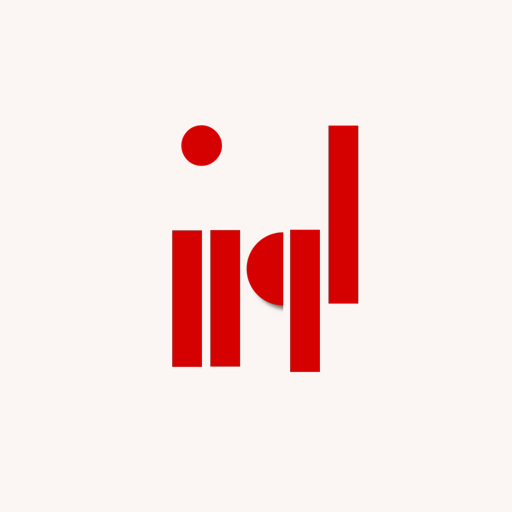
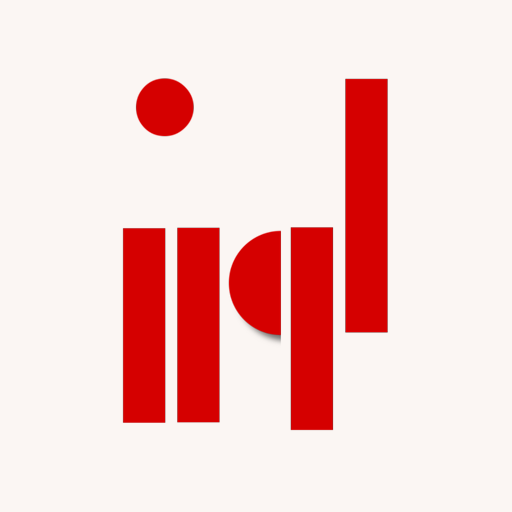
الشعار الأصلي في الشريط والفوتر بعد قصّ هوامشه الشفافة

Changed region(s): [[0.2188, 0.125, 0.7812, 0.8438], [0.25, 0.1562, 0.4375, 0.3438]]

diff --git a/index.html b/index.html
@@ -112,14 +112,8 @@
   <div class="container nav__inner">
 
     <a class="nav__brand" href="#hero" aria-label="مؤسسة لون — الصفحة الرئيسية">
-      <svg viewBox="0 0 1240 1240" aria-hidden="true" fill="currentColor">
-        <circle cx="441" cy="243" r="68"/>
-        <rect x="858" y="172" width="103" height="595"/>
-        <rect x="343" y="520" width="104" height="455"/>
-        <rect x="470" y="520" width="100" height="455"/>
-        <path d="M713 520v250h-3a125 125 0 0 1 0-250z"/>
-        <rect x="733" y="520" width="100" height="470"/>
-      </svg>
+      <img class="nav__logo" src="assets/img/logo.png" alt="" aria-hidden="true"
+             width="634" height="830" fetchpriority="high">
       <span class="nav__brand-text" data-i18n="brand.short">مؤسسة لون</span>
     </a>
 
@@ -604,14 +598,8 @@
 
       <div>
         <a class="nav__brand" href="#hero" style="margin-bottom:16px">
-          <svg viewBox="0 0 1240 1240" aria-hidden="true" fill="currentColor">
-            <circle cx="441" cy="243" r="68"/>
-            <rect x="858" y="172" width="103" height="595"/>
-            <rect x="343" y="520" width="104" height="455"/>
-            <rect x="470" y="520" width="100" height="455"/>
-            <path d="M713 520v250h-3a125 125 0 0 1 0-250z"/>
-            <rect x="733" y="520" width="100" height="470"/>
-          </svg>
+          <img class="nav__logo" src="assets/img/logo.png" alt="" aria-hidden="true"
+             width="634" height="830" fetchpriority="high">
           <span class="nav__brand-text" data-i18n="brand.full">مؤسسة لون للمقاولات العامة</span>
         </a>
         <p style="color:var(--muted);font-size:15px;max-width:42ch" data-i18n="footer.tag">

diff --git a/assets/css/styles.css b/assets/css/styles.css
@@ -466,10 +466,17 @@ button { font: inherit; color: inherit; }
   align-items: center;
   gap: 12px;
   min-height: 56px;
-  color: var(--logo);
 }
 
-.nav__brand svg { width: 56px; height: 56px; }
+/* الشعار الأصلي صورة لا رسم متجّه. الملف المرسل كان محتواه 51% من عرضه
+   والباقي هوامش شفافة، فبدا صغيراً مهما كُبّر — قُصّت الهوامش فصار الحجم
+   المعلن هو المرئي. الارتفاع هو المقياس هنا لأن الشعار طولي (634×830). */
+.nav__logo {
+  height: 52px;
+  width: auto;
+  flex: none;
+  display: block;
+}
 
 .nav__brand-text {
   font-family: "Readex Pro", sans-serif;
@@ -590,7 +597,7 @@ button { font: inherit; color: inherit; }
 @media (max-width: 479px) {
   .nav__inner { gap: var(--space-2); }
   .nav__brand { gap: 8px; }
-  .nav__brand svg { width: 44px; height: 44px; flex: none; }
+  .nav__logo { height: 42px; }
   .nav__brand-text { font-size: 17px; overflow: hidden; text-overflow: ellipsis; }
   .nav__actions { gap: 8px; }
   .lang-toggle { min-width: 52px; min-height: 44px; padding-inline: 10px; font-size: 14px; }
@@ -1637,7 +1644,7 @@ body.is-locked { overflow: hidden; }
    --nav-fg غير معرّف خارج الشريط فكان النص يرث أحمر الشعار — والأحمر
    للشعار وحده. */
 .footer .nav__brand { gap: 16px; }
-.footer .nav__brand svg { width: 80px; height: 80px; flex: none; }
+.footer .nav__logo { height: 72px; }
 .footer .nav__brand-text { color: var(--fg); font-size: 26px; white-space: normal; }
 
 .footer > .container {
